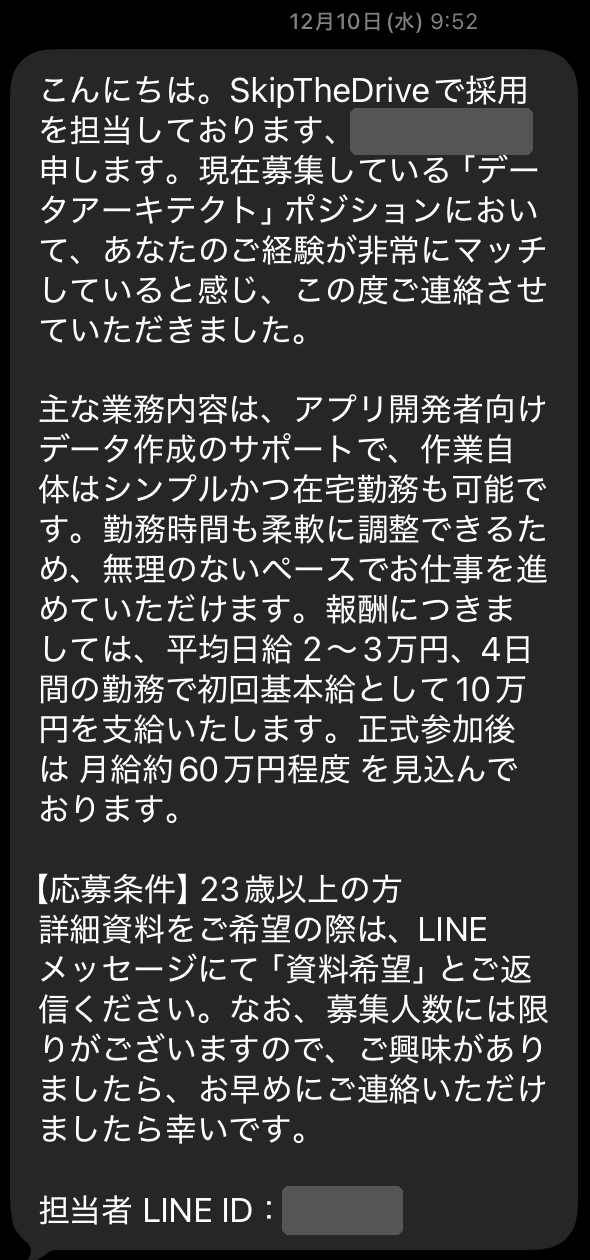
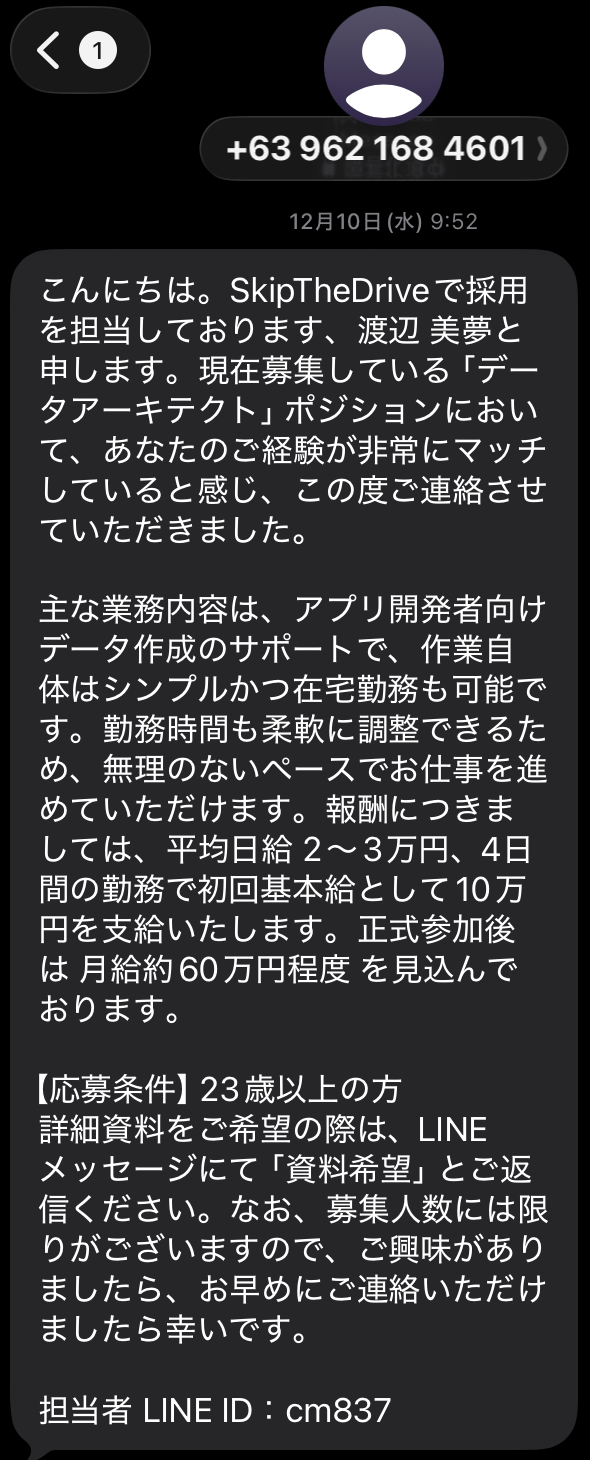
詐欺シリーズ①: スクショを塗りつぶしなし版に差し替え（ぴかりんごさんの判断）、アクセスしないよう注意書きを追加
Claude-Session: https://claude.ai/code/session_01LjHAALaj2Kz7gTYkFaYW8M

diff --git a/posts/money-10-sms-phishing-netbank.html b/posts/money-10-sms-phishing-netbank.html
@@ -167,20 +167,20 @@
           <li><strong>SMS</strong><br>最近よく受け取るのがSMSです。宅急便の不在通知、通販サイトからの個人情報更新依頼、仕事の勧誘など、色々です。</li>
         </ol>
 
-        <p>実際に届いたSMSを3つ紹介します（電話番号・URL・名前・LINE IDは隠しています）。</p>
+        <p>実際に届いたSMSを3つ紹介します。<strong>※ 画像内のURL・電話番号・LINE IDには、絶対にアクセスしないでください。</strong></p>
 
         <figure style="margin:1.5rem 0;text-align:center">
-          <img src="../images/scam-sms-delivery.png" alt="宅配業者の不在通知を装った詐欺SMS。「お荷物のお届けにあがりましたが不在の為持ち帰りました」という文面とリンク（URLは塗りつぶし済み）／A scam text pretending to be a missed-delivery notice" style="max-width:420px;width:100%;border-radius:8px;border:1px solid #ddd" loading="lazy">
+          <img src="../images/scam-sms-delivery.png" alt="宅配業者の不在通知を装った詐欺SMS。「お荷物のお届けにあがりましたが不在の為持ち帰りました」という文面とリンク／A scam text pretending to be a missed-delivery notice" style="max-width:420px;width:100%;border-radius:8px;border:1px solid #ddd" loading="lazy">
           <figcaption style="font-size:12.5px;color:#6a5f58;margin-top:.4rem">① 宅配業者の不在通知を装ったSMS。送り主の名前もなく、リンクを押させるのが目的です。</figcaption>
         </figure>
 
         <figure style="margin:1.5rem 0;text-align:center">
-          <img src="../images/scam-sms-amazon.png" alt="Amazonを装った詐欺SMS。「Amazonアカウントが制限されています、支払い情報の復旧を確認す。」という文面（URLは塗りつぶし済み）／A scam text pretending to be from Amazon" style="max-width:420px;width:100%;border-radius:8px;border:1px solid #ddd" loading="lazy">
+          <img src="../images/scam-sms-amazon.png" alt="Amazonを装った詐欺SMS。「Amazonアカウントが制限されています、支払い情報の復旧を確認す。」という文面／A scam text pretending to be from Amazon" style="max-width:420px;width:100%;border-radius:8px;border:1px solid #ddd" loading="lazy">
           <figcaption style="font-size:12.5px;color:#6a5f58;margin-top:.4rem">② 通販サイトを装ったSMS。「復旧を確認す。」と、日本語が少し不自然です。</figcaption>
         </figure>
 
         <figure style="margin:1.5rem 0;text-align:center">
-          <img src="../images/scam-sms-job.png" alt="在宅ワークの仕事を装った詐欺SMS。日給2〜3万円、月給約60万円をうたい、LINEで連絡するよう求める自然な日本語の文面（名前とLINE IDは塗りつぶし済み）／A job-offer scam text written in natural Japanese, asking the reader to contact them on LINE" style="max-width:360px;width:100%;border-radius:8px;border:1px solid #ddd" loading="lazy">
+          <img src="../images/scam-sms-job.png" alt="在宅ワークの仕事を装った詐欺SMS。日給2〜3万円、月給約60万円をうたい、LINEで連絡するよう求める自然な日本語の文面／A job-offer scam text written in natural Japanese, asking the reader to contact them on LINE" style="max-width:360px;width:100%;border-radius:8px;border:1px solid #ddd" loading="lazy">
           <figcaption style="font-size:12.5px;color:#6a5f58;margin-top:.4rem">③ 実在する会社の名前をかたった仕事の勧誘SMS。日本語はとても自然で、ていねいです。</figcaption>
         </figure>
 
@@ -309,7 +309,7 @@
         </ol>
 
         <figure style="margin:1.5rem 0;text-align:center">
-          <img src="../images/scam-sms-job.png" alt="A job-offer scam text written in natural Japanese, promising high pay and asking the reader to contact them on LINE (name and LINE ID hidden)" style="max-width:360px;width:100%;border-radius:8px;border:1px solid #ddd" loading="lazy">
+          <img src="../images/scam-sms-job.png" alt="A job-offer scam text written in natural Japanese, promising high pay and asking the reader to contact them on LINE" style="max-width:360px;width:100%;border-radius:8px;border:1px solid #ddd" loading="lazy">
           <figcaption style="font-size:12.5px;color:#6a5f58;margin-top:.4rem">A job-offer scam text I received. The Japanese is completely natural and polite; the red flags are the too-good-to-be-true pay and the push to move to LINE.</figcaption>
         </figure>
 
